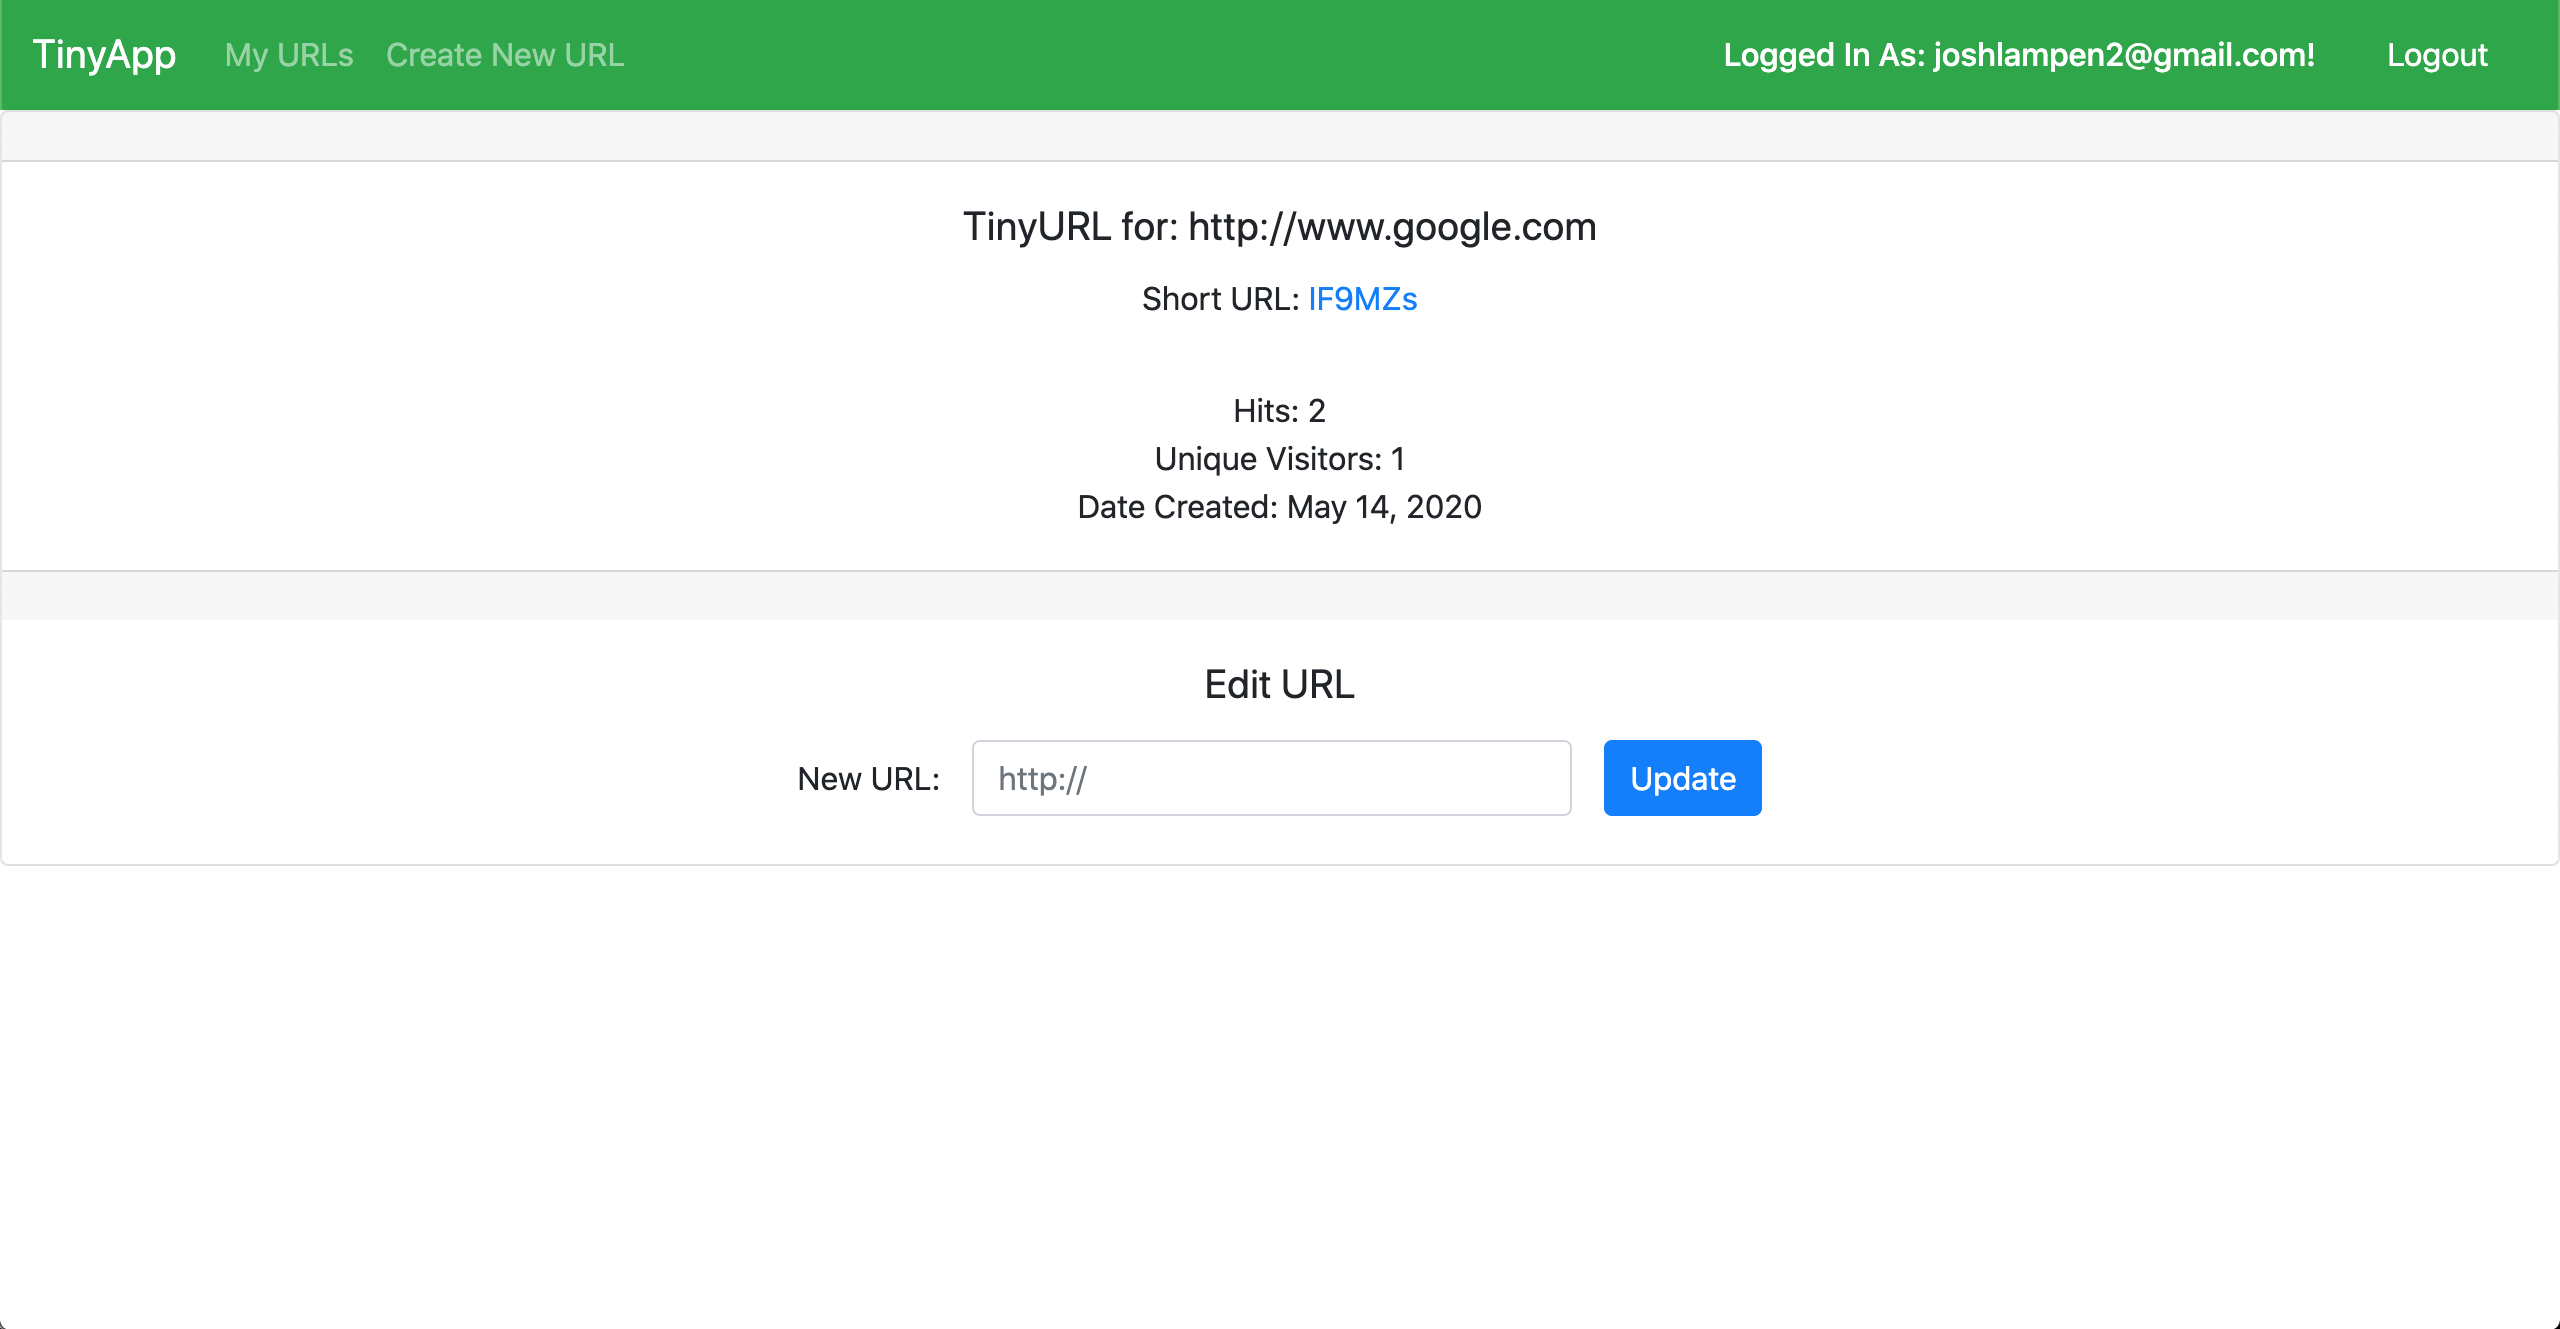
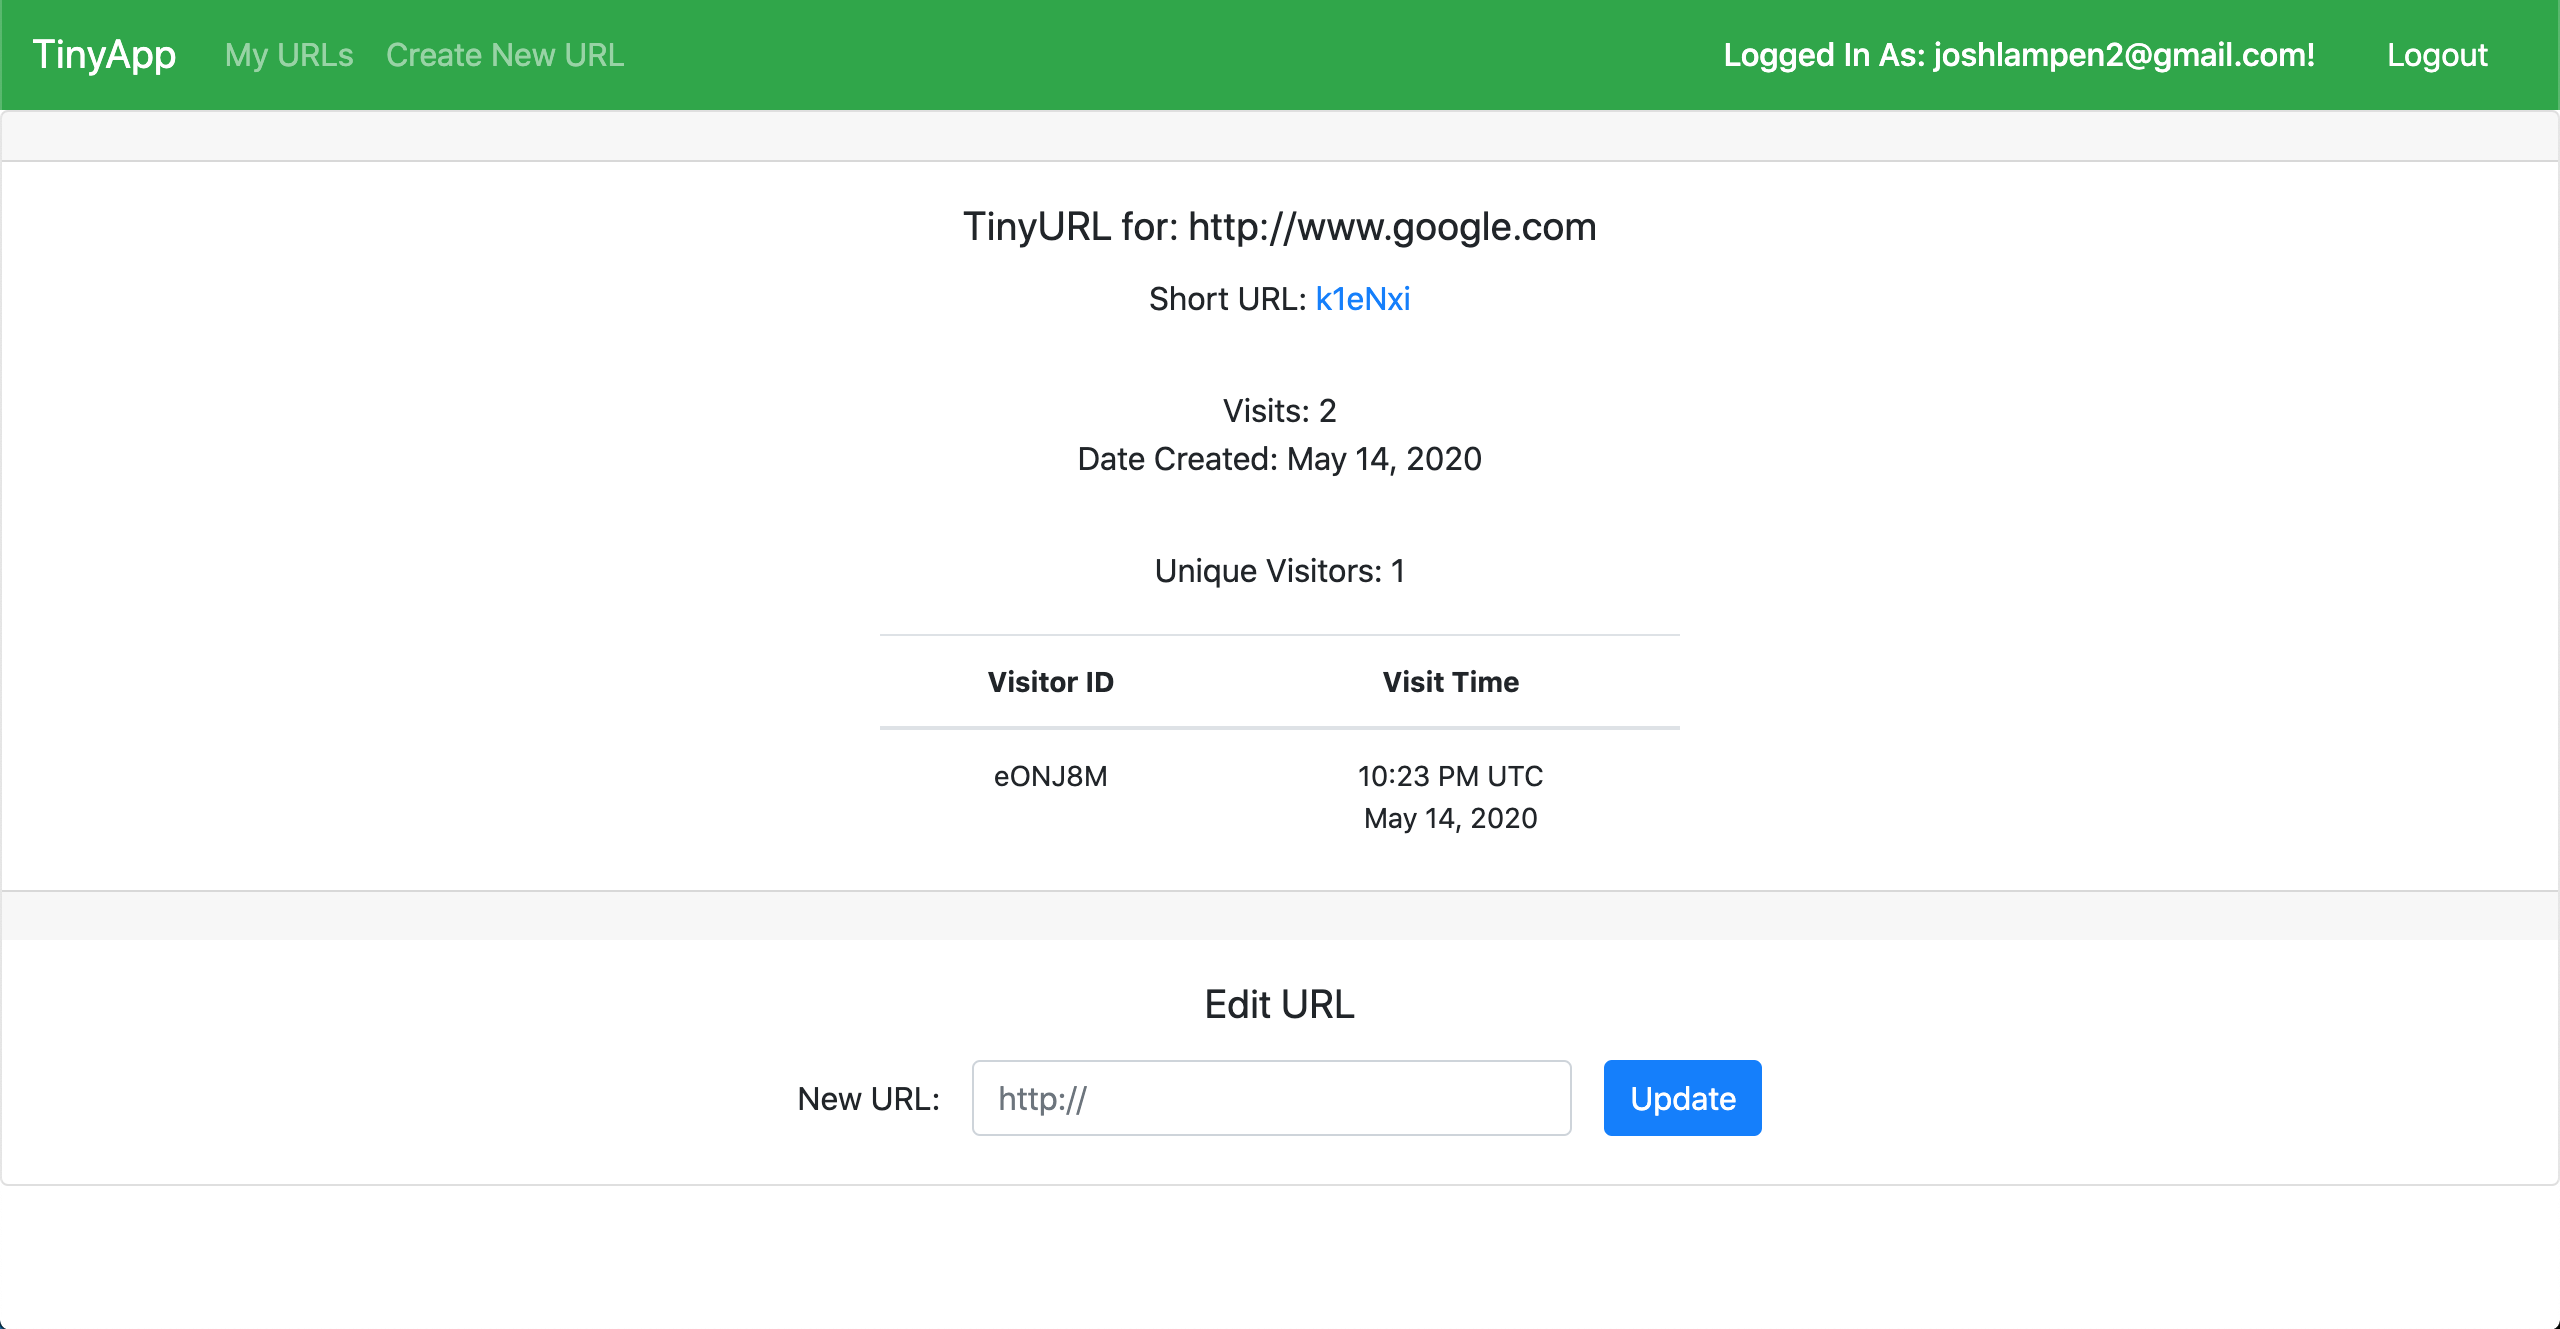
Changed term from 'hits' to 'visits'; updated show-url-page in README

diff --git a/test/helpersTest.js b/test/helpersTest.js
@@ -18,21 +18,21 @@ const testURLDatabase = {
   b6UTxQ: {
     longURL: "https://www.firstexample.com",
     userID: "aJ48lW",
-    hits: 5,
+    visits: 5,
     uniqueVisitors: 3,
     dateMade: "May 14, 2020"
   },
   i3BoGr: {
     longURL: "https://www.secondexample.com",
     userID: "b5o2xJ",
-    hits: 10,
+    visits: 10,
     uniqueVisitors: 6,
     dateMade: "May 14, 2020"
   },
   b5oR46: {
     longURL: "https://www.thirdexample.com",
     userID: "aJ48lW",
-    hits: 6,
+    visits: 6,
     uniqueVisitors: 2,
     dateMade: "May 14, 2020"
   }
@@ -61,13 +61,13 @@ describe('getUserURLs', function() {
     const expectedOutput = {
       b6UTxQ: {
         longURL: "https://www.firstexample.com",
-        hits: 5,
+        visits: 5,
         uniqueVisitors: 3,
         dateMade: "May 14, 2020"
       },
       b5oR46: {
         longURL: "https://www.thirdexample.com",
-        hits: 6,
+        visits: 6,
         uniqueVisitors: 2,
         dateMade: "May 14, 2020"
       }

diff --git a/helpers.js b/helpers.js
@@ -56,14 +56,14 @@ const getUserURLs = (userID, database) => {
   const userURLs = {};
   for (const shortURL in database) {
     const longURL = database[shortURL].longURL;
-    const hits = database[shortURL].hits;
+    const visits = database[shortURL].visits;
     const uniqueVisitors = database[shortURL].uniqueVisitors;
     const dateMade = database[shortURL].dateMade;
 
     if (database[shortURL].userID === userID) {
       userURLs[shortURL] = {
         longURL,
-        hits,
+        visits,
         uniqueVisitors,
         dateMade
       };

diff --git a/routes/get-url-router.js b/routes/get-url-router.js
@@ -31,7 +31,7 @@ getURL.get("/u/:shortURL", (req, res) => {
       urlDatabase[shortURL].uniqueVisitors++;
     }
 
-    urlDatabase[shortURL].hits++;
+    urlDatabase[shortURL].visits++;
     
     const longURL = urlDatabase[shortURL].longURL;
     res.redirect(longURL);

diff --git a/databases.js b/databases.js
@@ -19,7 +19,7 @@ const urlDatabase = {
   // b6UTxQ: {
   // longURL: "https://www.tsn.ca",
   // userID: "aJ48lW",
-  // hits: 0,
+  // visits: 0,
   // uniqueVisitors: 0
   // dateMade: May 14, 2020
   // }

diff --git a/routes/urls-router.js b/routes/urls-router.js
@@ -58,7 +58,7 @@ urls.post("/urls", (req, res) => {
     urlDatabase[shortURL] = {
       longURL,
       userID,
-      hits: 0,
+      visits: 0,
       uniqueVisitors: 0,
       dateMade
     };

diff --git a/README.md b/README.md
@@ -2,7 +2,7 @@
 
 TinyApp is a full stack web application built with Node and Express that allows users to shorten long URLs (similar to bit.ly).
 
-Users can manage their shortened URLs and track data such as hits and unique visitors.
+Users can manage their shortened URLs and track data such as visits and unique visitors.
 
 ## Final Product
 
